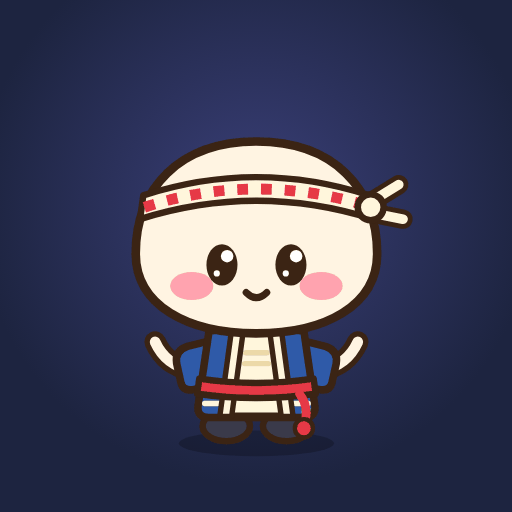
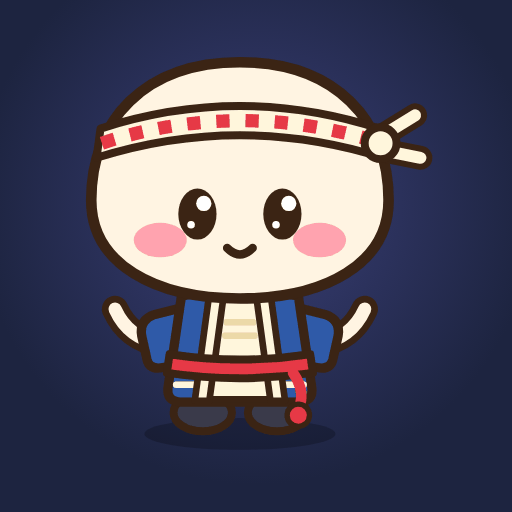
v24：右下のキャラクターとアプリのアイコンを大きくしました

Changed region(s): [[0.1562, 0.0938, 0.8438, 0.875]]

diff --git a/style.css b/style.css
@@ -12,7 +12,11 @@
   --ng: #d1495b;
   --radius: 16px;
   --shake: 6px;
-  --dock-h: 134px; /* 下の帯の高さ（15回目）。ハッピーが跳ねても帯の中に収まる高さ */
+  /* 29回目：ハッピーを2倍に（幅 88px → 176px。持ち主「小さ過ぎる。もう2倍は大きい表示で良い」）。
+     帯の高さは、いちばん高くなる動き（進化の scale(1.12)≒高さ235px）が下の余白6pxと合わせて収まる高さ */
+  --mascot-w: 176px; /* ハッピーの幅（高さは幅の約1.19倍） */
+  --mascot-r: 16px;  /* ハッピーの右の余白（29回目に 8px から。大きくなって、段階5〜6で踊るときのハチマキの先が画面の右端で切れたため）。吹き出し・大きな文字の位置はこの2つから決める */
+  --dock-h: 246px; /* 下の帯の高さ（15回目・29回目に 134px から）。ハッピーが跳ねても帯の中に収まる高さ */
   font-family: "Hiragino Kaku Gothic ProN", "Hiragino Sans", "Yu Gothic UI", "Yu Gothic", "Meiryo", "Noto Sans JP", system-ui, sans-serif;
 }
 
@@ -100,7 +104,7 @@ html { scroll-padding-bottom: calc(var(--dock-h) + 12px + env(safe-area-inset-bo
   background: var(--bg1); border-top: 1px solid rgba(255, 255, 255, 0.12);
   box-shadow: 0 -6px 14px rgba(0, 0, 0, 0.3); transition: background 0.8s;
 }
-.dock-inner { position: relative; max-width: 720px; height: var(--dock-h); margin: 0 auto; }
+.dock-inner { position: relative; max-width: 720px; height: var(--dock-h); margin: 0 auto; container-type: inline-size; } /* 29回目：大きな文字の大きさを帯の幅（cqw）から決める */
 .screen { display: none; }
 .screen.active { display: block; animation: fadein 0.3s; }
 @keyframes fadein { from { opacity: 0; transform: translateY(8px); } }
@@ -365,7 +369,7 @@ body[data-motion="low"] .stage-badge, body[data-motion="low"] .result-best { ani
 
 /* ---- マスコット ---- */
 #mascot {
-  position: absolute; right: 8px; bottom: 6px; width: 88px; z-index: 1;
+  position: absolute; right: var(--mascot-r); bottom: 6px; width: var(--mascot-w); z-index: 1;
   pointer-events: none; transform-origin: 50% 100%;
 }
 #mascot svg { width: 100%; height: auto; display: block; overflow: visible; }
@@ -431,7 +435,8 @@ body[data-motion="low"] #mascot, body[data-motion="low"] #mascot * { animation: 
 
 /* ハッピーのひとこと（吹き出し）。下の帯の中、ハッピーの左横（15回目） */
 #mascot-say {
-  position: absolute; right: 108px; bottom: 10px; z-index: 2; max-width: min(240px, calc(100% - 124px));
+  position: absolute; right: calc(var(--mascot-r) + var(--mascot-w) + 12px); bottom: 10px; z-index: 2;
+  max-width: min(240px, calc(100% - var(--mascot-r) - var(--mascot-w) - 28px));
   background: #fff; color: var(--card-ink); font-weight: 800; font-size: 0.85rem; line-height: 1.3;
   padding: 4px 10px; border-radius: 12px; border: 3px solid #3b2414; pointer-events: none;
   opacity: 0; transform: translateY(6px); transition: opacity 0.2s, transform 0.2s;
@@ -440,12 +445,24 @@ body[data-motion="low"] #mascot, body[data-motion="low"] #mascot * { animation: 
   content: ""; position: absolute; right: -16px; bottom: 10px; border: 7px solid transparent; border-left-color: #3b2414;
 }
 #mascot-say.show { opacity: 1; transform: none; }
+/* 29回目：回転ジャンプ（0.7秒）の途中ではハッピーが横向きに倒れ、大きくなった頭が吹き出しの位置に入る。
+   回っている間は吹き出しを隠し、回り終えてから出す（吹き出しは 2.2秒出るので、回ったあとも 1.5秒見える） */
+body:not([data-motion="low"]) #mascot.spin + #mascot-say.show { opacity: 0; transform: translateY(6px); }
 
 @media (min-width: 900px) {
-  :root { --dock-h: 196px; }
-  #mascot { width: 130px; right: 24px; bottom: 10px; }
-  #mascot-say { right: 168px; bottom: 28px; max-width: 320px; }
-  .shout { right: 168px; }
+  :root { --dock-h: 280px; --mascot-w: 200px; --mascot-r: 24px; } /* 29回目：幅 130px → 200px・帯 196px → 280px */
+  #mascot { bottom: 10px; }
+  #mascot-say { bottom: 28px; max-width: 320px; }
+}
+
+/* 29回目：背の低い画面（iPhone SE の Safari・スマホの横向きなど）では、2倍の帯だと中身がほとんど見えなくなるので小さくする。
+   高さ 640px 以下＝幅 128px・帯 184px（約1.45倍）、440px 以下＝15回目の大きさ（88px・134px）。
+   帯の高さは、進化の scale(1.12) と下の余白（スマホ 6px・PC 10px）が収まる値。PC 幅の指定より後に置いて、こちらを優先する */
+@media (max-height: 640px) {
+  :root { --mascot-w: 128px; --dock-h: 184px; }
+}
+@media (max-height: 440px) {
+  :root { --mascot-w: 88px; --dock-h: 134px; }
 }
 
 /* ---- 設定 ---- */
@@ -524,13 +541,20 @@ input[type="radio"], input[type="checkbox"] { transform: scale(1.3); margin-righ
 
 /* 大きな文字（15回目から下の帯の中に短く。問題・選択肢・解説には重ねない。帯の幅に収まる大きさ） */
 .shout {
-  position: absolute; left: 8px; right: 104px; top: 8px; z-index: 3; text-align: center; pointer-events: none;
+  position: absolute; left: 8px; right: calc(var(--mascot-r) + var(--mascot-w) + 8px); top: 8px; z-index: 3; text-align: center; pointer-events: none;
   font-size: clamp(1.8rem, 9vw, 3.2rem); font-weight: 900; color: #fff; letter-spacing: 0.05em;
   /* 15回目：太い赤茶の縁取りと金色の光をやめ、白い文字＋黒い影だけに（細い文字の白が縁取りに食われて赤く見え、読みにくかった） */
   text-shadow: 0 2px 0 rgba(0, 0, 0, 0.55), 0 0 6px rgba(0, 0, 0, 0.45);
   opacity: 0;
 }
 .shout { white-space: pre-line; }
+/* 29回目：ハッピーが2倍になって左の幅が狭くなり、「パーフェク／ト！」と折れた。大きな文字はいちばん長くて7文字
+   （「パーフェクト！」「リベンジ成功！」）なので、ハッピーの左の幅（帯の幅 100cqw から計算）に7文字が1行で入る大きさを上限にする。
+   var() を含む宣言は、cqw が使えないと前の宣言に戻らず親の大きさになるので、@supports の中に置く。
+   使えない古いブラウザでは上の clamp の大きさのまま */
+@supports (width: 1cqw) {
+  .shout { font-size: min(clamp(1.8rem, 9vw, 3.2rem), calc((100cqw - var(--mascot-r) - var(--mascot-w) - 16px) / 7.6)); }
+}
 .shout.on { animation: shout var(--shout-ms, 1.9s) ease-out forwards; }
 .shout.tier3, .shout.tier4 { color: #ffe9a8; } /* 10コンボ以上は淡いクリーム色（目立たせすぎない） */
 .shout.stage { font-size: clamp(1.05rem, 5.2vw, 2.2rem); line-height: 1.25; background: linear-gradient(90deg, transparent, rgba(44, 51, 90, 0.94) 12%, rgba(44, 51, 90, 0.94) 88%, transparent); padding: 5px 0; -webkit-text-stroke: 0; text-shadow: 0 2px 0 rgba(0, 0, 0, 0.4), 0 0 14px rgba(255, 183, 3, 0.8); }

diff --git a/sw.js b/sw.js
@@ -2,7 +2,7 @@
 // app/ の中のファイルだけをキャッシュする。外部（ほかのサイト）へのリクエストには一切さわらない。
 // ファイルを足したら ASSETS に足し、内容を変えて公開するときは VERSION を上げる（tests/pwa.test.js で検査）。
 
-const VERSION = 'v23';
+const VERSION = 'v24';
 const CACHE = `rekishi-dopa-${VERSION}`;
 
 const ASSETS = [
